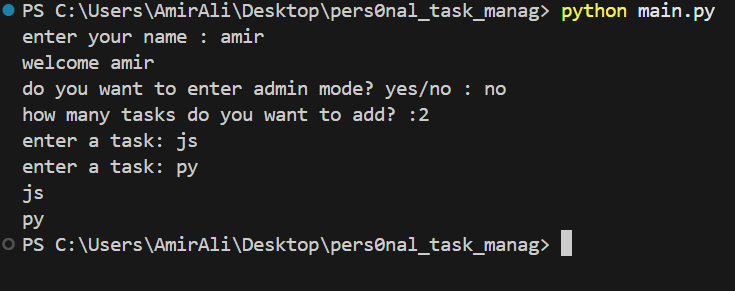
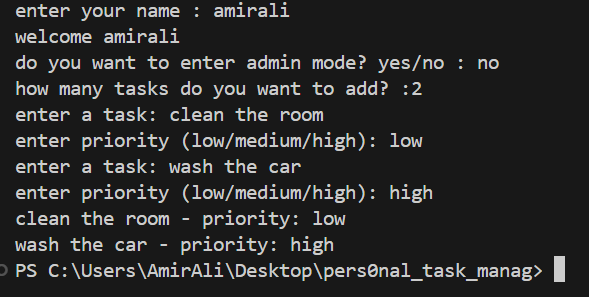
update readme

diff --git a/README.md b/README.md
@@ -9,7 +9,14 @@ A simple task manager built with python
 - save tasks
 - load saved tasks
 - admin mode
+- set task priority
 
+## Task priority
+
+each task can have one of these priority levels:
+- low
+- medium
+- high
 
 ## Requirements
 - Python
